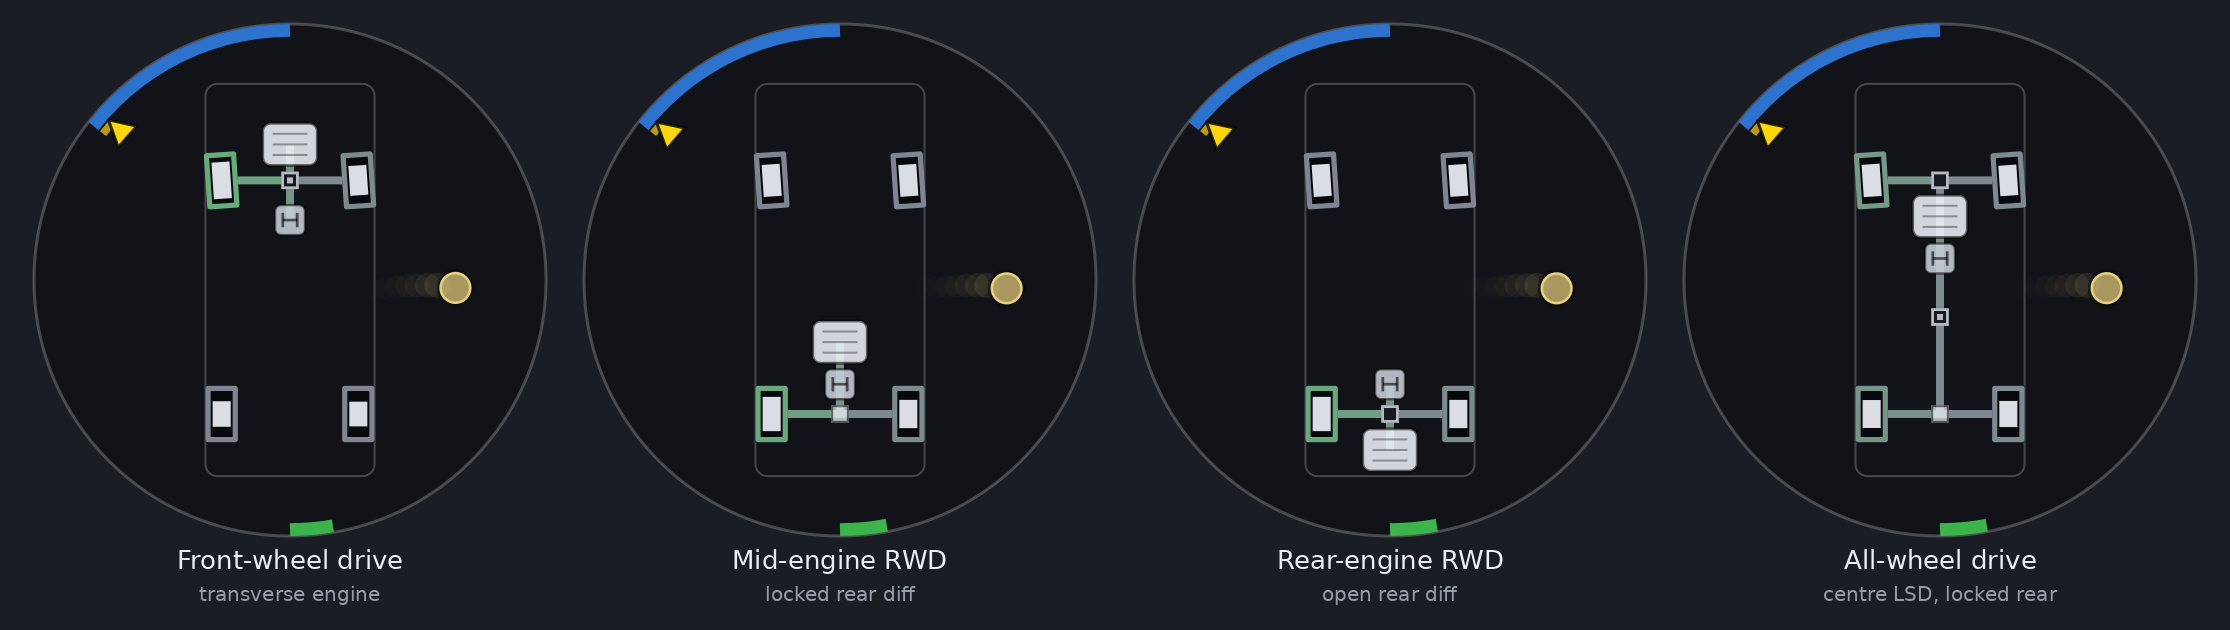
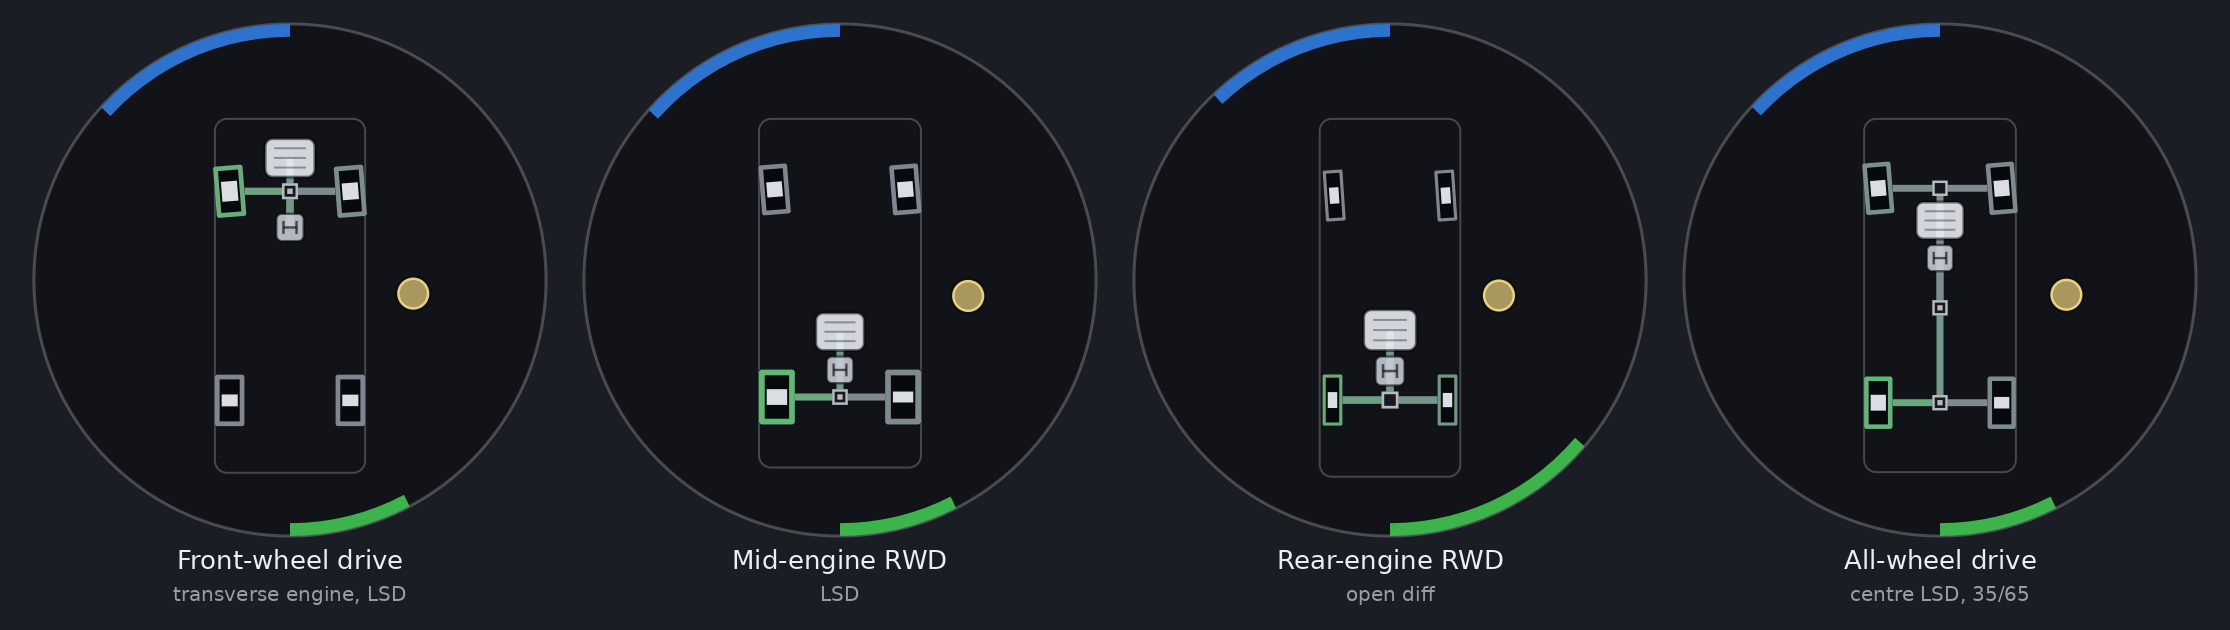
Remove Numbers Mode

diff --git a/README.md b/README.md
@@ -1,6 +1,6 @@
 # VGS Display for Assetto Corsa
 
-**Version 1.02**
+**Version 1.10**
 
 A live grip display for Assetto Corsa, ported from the BeamNG.drive version (2.5) and inspired by the VGS (Vehicle Gravity System) in Enthusia Professional Racing. It shows what a simulator can't let you feel: how hard each tyre is working, when one lets go and how badly, where the car is really going against where you're steering, and whether it's the front or the rear that's giving up.
 
@@ -8,7 +8,7 @@ It's a Custom Shaders Patch (CSP) Lua app. The picture and colours are the BeamN
 
 Every readout in 1.0 was checked against the exact values in a vehicle simulation: 22 cars, nearly 700 runs. [How it was tested](#how-it-was-tested) has the numbers.
 
-![The balance states: at the limit, understeer, oversteer, and a drift with numbers mode on](docs/balance.png)
+![The balance states: at the limit, understeer, oversteer, and a drift](docs/balance.png)
 
 ## Install
 
@@ -17,7 +17,7 @@ Every readout in 1.0 was checked against the exact values in a vehicle simulatio
 3. In a session, open the app bar on the right of the screen and switch on **VGS Display**.
 4. Move it and resize it to taste. The circle always fills the window.
 
-**Click the app** to switch numbers mode on or off. The cog on its title bar opens the settings: weight unit, engine position, whether to draw the drivetrain, and a diagnostics panel.
+The cog on its title bar opens the settings: engine position, whether to draw the drivetrain, and a diagnostics panel.
 
 It shows the car the camera is on, so it works in replays and while spectating too.
 
@@ -74,7 +74,7 @@ Drift detection uses the rule from Damgam's **Drift Scoring** app:
 - **Past 120°** it's a spin, not a drift, and the marker goes back to pink (oversteer).
 - **Through a transition** the angle passes through zero when you flick from one direction to the other. The drift is held for **0.5 s** so the colour doesn't drop out. It ends at once if you spin or drop under 20 km/h.
 
-While drifting, the marker and its band are aquamarine. Numbers mode shows **Drift** with the drift angle, like Drift Scoring's angle meter.
+While drifting, the marker and its band are aquamarine, and the [balance readout](#the-balance-readout) shows **Drift** with the drift angle, like Drift Scoring's angle meter.
 
 A rear stepping out by less than 10°, or a slide below 20 km/h, is still oversteer (pink). Drift Scoring's off-track, direction-of-lap and scoring rules don't apply here: a slide on the grass is still a slide.
 
@@ -96,11 +96,13 @@ Under the wheels: the engine, gearbox, differentials and shafts, tinted green wh
 
   The weight alone can't tell a mid-engined Lotus (38 % on the front) from a rear-engined Porsche 911 (39 %), or a front-engined Ferrari F12 (46 %) from a mid-engined Cayman (45 %). On 248 real cars (most of the Kunos cars and many others, with their weight distributions approximated; 56 of them checked only after the table was written), the weight alone placed 90 % right and the four steps together all of them. The settings' diagnostics say which step placed it. If it's still wrong for a car, pick the position in the settings.
 
-## Numbers mode
+## The balance readout
 
-![Numbers mode at 120, 200 and 320 pixels](docs/numbers.png)
+![The balance readout at 120, 200 and 320 pixels](docs/sizes.png)
 
-By each tyre: its grip in use (100 % is the peak of its curve; above that it's past it) and the weight on it. At the top: the balance in words, in the marker's colour, with how many degrees more one axle is slipping than the other (to within about 0.3° in the tests). In a small app (under about 200 px, or wherever the full readouts wouldn't fit) only the grip is shown and the words are shortened. Each number is averaged over 150 ms so it can be read.
+Above the car, whenever the marker shows a state: the state in words, in the marker's colour, with an angle above it. For the near-limit, at-the-limit, understeer and oversteer states, the angle is how many degrees more one axle is slipping than the other (to within about 0.3° in the tests). For a drift it's the drift angle, and for a powerslide the rear tyres' slip angle. With the car within its grip, nothing is shown. The angle is averaged over 150 ms so it can be read.
+
+The car is drawn a little smaller and lower to make room for it. In a small app (under about 125 px across, or wherever the full words would squeeze the car too much) the words are shortened: *Front near*, *Rear near*, *At limit*, *Under*, *Over*.
 
 ## What's different from the BeamNG version
 
@@ -118,6 +120,7 @@ AC reports some things BeamNG doesn't, and the other way round.
 - **Shafts**: drive is shown while you're on the throttle, and engine braking while you're off the throttle and the brakes. Under braking the shafts stay grey, because friction braking and engine braking can't be told apart.
 - **The slide colour** uses the same slip-ratio scale as BeamNG (pink up to 30 %, deepest red at 100 %), worked out from the tyre's slip ratio and slip angle.
 - **Signs are learnt, not assumed.** Which way the steering input points, the yaw rate's sign and the slip ratio's sign are each checked against the car's own motion within the first moments of driving. The diagnostics panel shows what was learnt.
+- **No numbers mode.** The [balance readout](#the-balance-readout) is always on. There are no grip or weight figures by the tyres.
 - **The steering's full lock** is read from `car.ini` (the steering wheel's lock over the rack's ratio), so the direction marker's scale is right from the first frame. The BeamNG version learnt it, and the AC port did until 1.0.
 
 **Not available in AC:**
@@ -130,7 +133,7 @@ AC reports some things BeamNG doesn't, and the other way round.
 
 ## Settings you can change
 
-In the app's settings window: numbers mode, weight unit (kg or lb), engine position, and whether to draw the drivetrain. The diagnostics there show what the app has read and learnt about the car: its layout, where the engine position came from, the full lock, each axle's peak slip ratio, the signs, and the live balance.
+In the app's settings window: engine position, and whether to draw the drivetrain. The diagnostics there show what the app has read and learnt about the car: its layout, where the engine position came from, the full lock, each axle's peak slip ratio, the signs, and the live balance.
 
 The rest are constants at the top of `src/telemetry.lua` (the `TUNE` table) and `src/render.lua`. Most keep their BeamNG names and meanings. The AC-specific ones:
 
@@ -210,9 +213,9 @@ Tyre peaks from 5° to 10° slip angle and 7 % to 14 % slip ratio, grip from 0.9
 | Torque outline, error (share of grip) | 0.12 | 0.05 |
 | Grip bar, error (share of the peak) | 0.037 | 0.029 |
 | Direction marker, error (road-wheel degrees) | 0.28° | 0.15° |
-| Axle slip angles (numbers mode), error | 0.42° front, 0.51° rear | 0.29°, 0.29° |
+| Axle slip angles (the balance readout), error | 0.42° front, 0.51° rear | 0.29°, 0.29° |
 | Wheel steering angles, drawn wheel positions and tyre sizes | exact | exact |
-| Pedals (to the whole percent), steering input, drift angle, weights | exact | exact |
+| Pedals (to the whole percent), steering input, drift angle | exact | exact |
 
 The variants agreed as well (balance state 88.6 % before, 95.2 % after; oversteer from 22 % to 93 % found). In the robustness runs every sign was learnt, the app opened mid-corner now reads the steering to within half a degree from the first frame (it was 3.5° off until the wheels were next straight), and a car without `steerLock` now gets its lock from `car.ini`.
 
